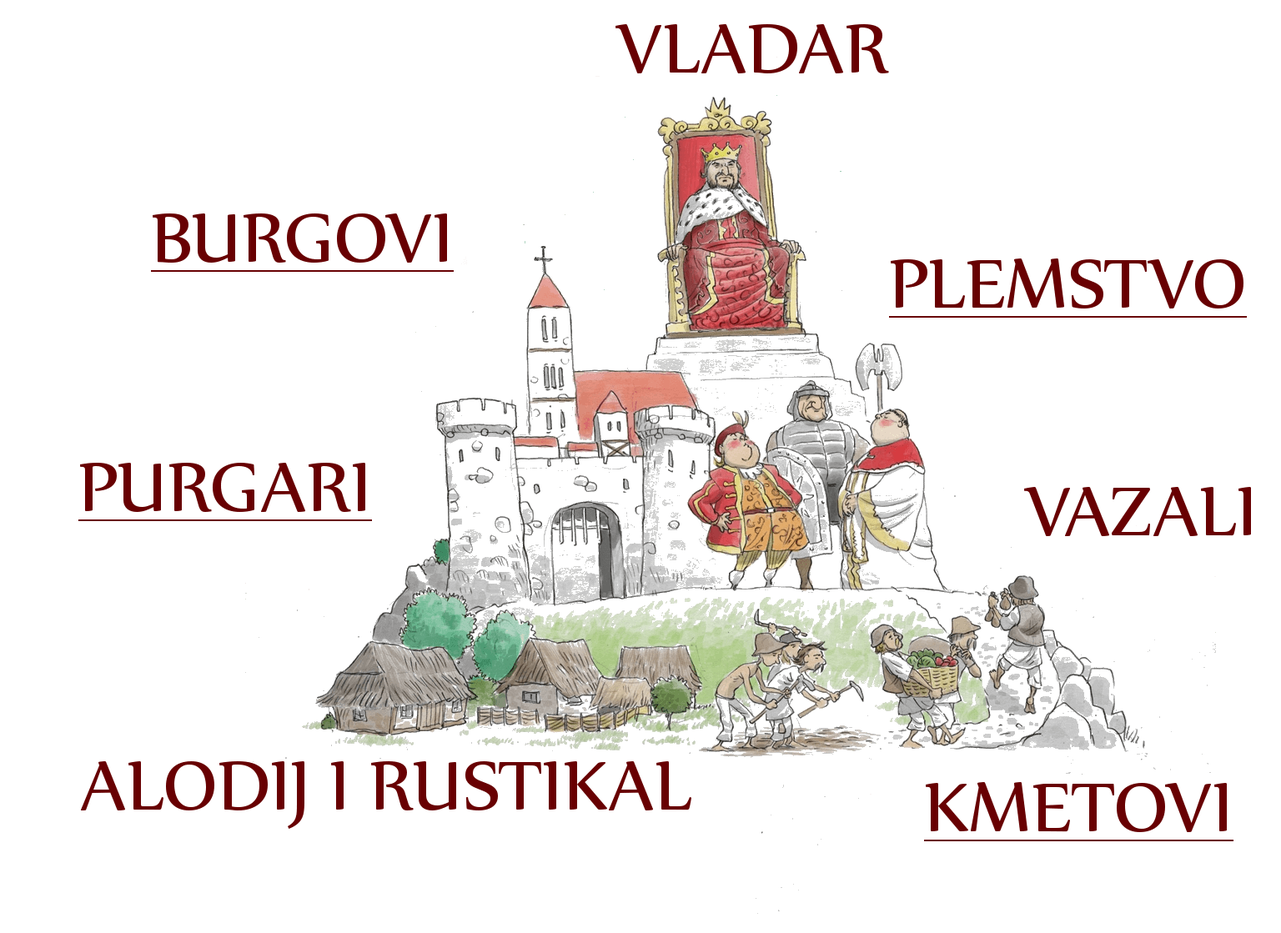
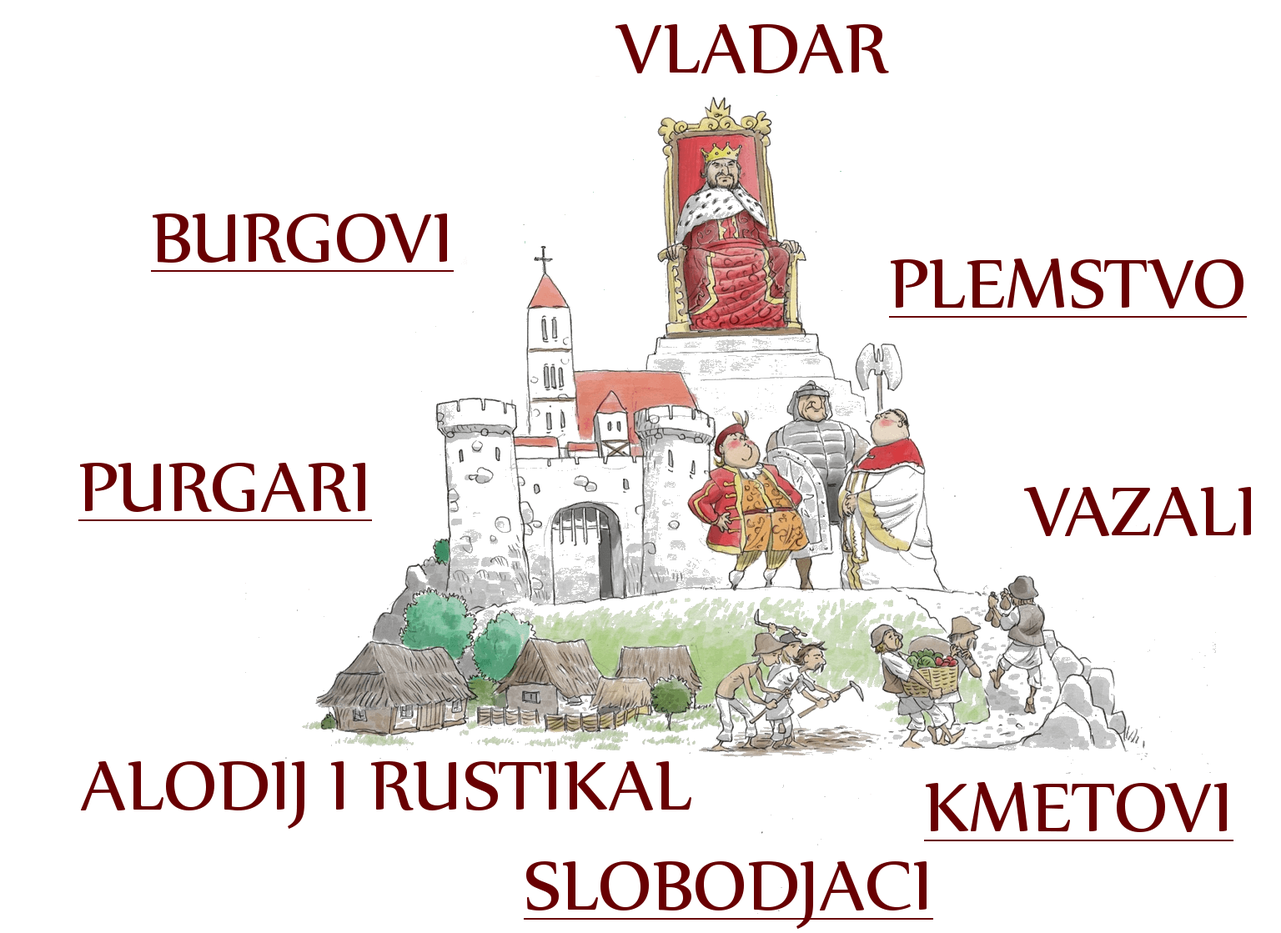
Touch - test

Changed region(s): [[0.4062, 0.9115, 0.7188, 1.0], [0.7188, 0.9419, 0.75, 0.9723], [0.6875, 0.9723, 0.7188, 1.0]]

diff --git a/feudalna-piramida.html b/feudalna-piramida.html
@@ -2,193 +2,187 @@
 <html>
 
 <head>
-  <meta charset="utf-8">
-  <title>Muzej seljačkih buna</title>
-  <meta name="viewport" content="width=device-width, initial-scale=1">
-  <link rel="stylesheet" type="text/css" href="css/w3.css">
-  <link rel="stylesheet" type="text/css" href="css/stil.css">
-  <link rel="stylesheet" type="text/css" href="css/font-awesome.min.css">
-  <script src="js/jquery-3.2.1.min.js" type="text/javascript"></script>
-  <script src="js/image-map.js" type="text/javascript"></script>
-  <style>
-    html,
-    body {
-      background: url(css/podloga2.jpg) no-repeat center center fixed;
-      -webkit-background-size: cover;
-      -moz-background-size: cover;
-      -o-background-size: cover;
-      background-size: cover;
-    }
-
-    .moj-modal {
-      position: fixed;
-      top: 50%;
-      transform: translateY(-50%);
-    }
-  </style>
+    <meta charset="utf-8">
+    <title>Muzej seljačkih buna</title>
+    <meta name="viewport" content="width=device-width, initial-scale=1">
+    <link rel="stylesheet" type="text/css" href="css/w3.css">
+    <link rel="stylesheet" type="text/css" href="css/stil.css">
+    <link rel="stylesheet" type="text/css" href="css/font-awesome.min.css">
+    <script src="js/jquery-3.2.1.min.js" type="text/javascript"></script>
+    <script src="js/image-map.js" type="text/javascript"></script>
+    <script src="js/index.js" type="text/javascript"></script>
+    <style>
+        html,
+        body {
+            background: url(css/podloga2.jpg) no-repeat center center fixed;
+            -webkit-background-size: cover;
+            -moz-background-size: cover;
+            -o-background-size: cover;
+            background-size: cover;
+        }
+        
+        .moj-modal {
+            position: fixed;
+            top: 50%;
+            transform: translateY(-50%);
+        }
+    </style>
 </head>
 
 <body>
-  <span onclick="location.href='index.html'" class="w3-button w3-display-topleft home"><i class="fa fa-fort-awesome" aria-hidden="true"></i></span>
+    <span onclick="location.href='index.html'" class="w3-button w3-display-topleft home"><i class="fa fa-fort-awesome" aria-hidden="true"></i></span>
 
-  <div class='modal-overlay w3-animate-opacity'>
-    <div class='moj-modal'>
-      <div>
-        <div class="w3-container">
-          <h1 class="naslov"><strong>Feudalno društvo</strong></h1>
-          <div style="width:50%; float:right; text-align:right"><img src="slike/feudalna-piramida.png" class="slike-tekst" usemap="#image-map">
-          </div>
-          <div style="width:50%;float:left">
-            <p class="tekst">Danas nam je pomalo teško zamisliti društvo u kakvom se živjelo u srednjem vijeku i odnose koji su tada vladali. Iako feudalizam obično poistovjećujemo sa srednjim vijekom, u Hrvatskoj i susjednim zemljama zadržao se sve do 19. stoljeća. Već
-              i stoga, bitno ga je upoznati.
-              <br> Feudalizam je utemeljen na odnosu između vladara i njegovih vazala te vazala - vlastelina i njihovih podložnika – vazalnom lancu. Naziv feudalizam potječe od riječi <i>feod</i> – posjed i ukazuje na veliko značenje zemlje za obradu
-              u feudalizmu. Vrhovno vlasništvo nad zemljom ima vladar, on pojedine dijelove dodjeljuje velikašima, koji ih daju svojim vazalima, a obrađuju ih njihovi podložnici. Zemljišni posjed – vlastelinstvo, osnova je srednjovjekovnog društva i ekonomije.
-              Dijeli se na dva dijela: <i>alodij</i> i <i>rustikal</i>. Rustikal je podijeljen na mnogo malih jedinica: kmetskih selišta. Svi prinosi s alodija pripadaju vlastelinu, koji je i njegov neposredni vlasnik, dok je rustikal podijeljen seljacima
-              koji ga obrađuju. Seljaci obrađuju vlastelinsku zemlju, to zovemo radnom rentom (ili tlakom), te daju dio prinosa sa svojih polja – to je naturalna renta i novac – novčanu rentu. Za uzvrat, vlastelini su svojim seljacima dužni pružiti zaštitu.
-              Obrađivači su morali davati vlasteli i neka druga davanja, kojima je svrha bila i naglasiti ugled viših staleža. I crkva se financirala iz davanja seljaka kroz crkvenu desetinu.
-            </p>
-          </div>
+    <div class='modal-overlay w3-animate-opacity'>
+        <div class='moj-modal'>
+            <div>
+                <div class="w3-container">
+                    <h1 class="naslov"><strong>Feudalno društvo</strong></h1>
+                    <div style="width:50%; float:right; text-align:right"><img src="slike/feudalna-piramida.png" class="slike-tekst" usemap="#image-map">
+                    </div>
+                    <div style="width:50%;float:left">
+                        <p class="tekst">Danas nam je pomalo teško zamisliti društvo u kakvom se živjelo u srednjem vijeku i odnose koji su tada vladali. Iako feudalizam obično poistovjećujemo sa srednjim vijekom, u Hrvatskoj i susjednim zemljama zadržao se sve do 19. stoljeća. Već i stoga, bitno ga je upoznati.
+                            <br>
+                            <br> Feudalizam je utemeljen na odnosu između vladara i njegovih vazala te vazala - vlastelina i njihovih podložnika – vazalnom lancu. Naziv feudalizam potječe od riječi <i>feod</i> – posjed i ukazuje na veliko značenje zemlje za obradu u feudalizmu. Vrhovno vlasništvo nad zemljom ima vladar, on pojedine dijelove dodjeljuje velikašima, koji ih daju svojim vazalima, a obrađuju ih njihovi podložnici. Zemljišni posjed – vlastelinstvo, osnova je srednjovjekovnog društva i ekonomije. Dijeli se na dva dijela: <i>alodij</i> i <i>rustikal</i>. Rustikal je podijeljen na mnogo malih jedinica: kmetskih selišta. Svi prinosi s alodija pripadaju vlastelinu, koji je i njegov neposredni vlasnik, dok je rustikal podijeljen seljacima koji ga obrađuju. Seljaci obrađuju vlastelinsku zemlju, to zovemo radnom rentom (ili tlakom), te daju dio prinosa sa svojih polja – to je naturalna renta i novac – novčanu rentu. Za uzvrat, vlastelini su svojim seljacima dužni pružiti zaštitu. Obrađivači su morali davati vlasteli i neka druga davanja, kojima je svrha bila i naglasiti ugled viših staleža. I crkva se financirala iz davanja seljaka kroz crkvenu desetinu.
+                        </p>
+                    </div>
+                </div>
+            </div>
         </div>
-      </div>
     </div>
-  </div>
 
-  <div id="burgovi" class="w3-modal">
-    <div class="w3-modal-content w3-card-4 w3-animate-opacity prozor">
-      <div class="w3-container">
-        <span onclick="$('#burgovi').fadeOut(600);" class="w3-button w3-display-topright iks">&times;</span>
-        <h1 class="naslov"><strong>BURGOVI</strong></h1>
+    <div id="burgovi" class="w3-modal">
+        <div class="w3-modal-content w3-card-4 w3-animate-opacity prozor">
+            <div class="w3-container">
+                <span onclick="$('#burgovi').fadeOut(600);" class="w3-button w3-display-topright iks">&times;</span>
+                <h1 class="naslov"><strong>BURGOVI</strong></h1>
 
-        <div style="width:50%; float:right; text-align:center; height:700px;"><a href="burgovi-2.html"><img src="slike/1-3_Vlastelinstvo-1573.png" class="slike-tekst"></a>
+                <div style="width:50%; float:right; text-align:center; height:700px;">
+                    <a href="burgovi-2.html"><img src="slike/1-3_Vlastelinstvo-1573.png" class="slike-tekst"></a>
+                </div>
+
+                <div style="width:50%;float:left; height:700px; overflow:auto">
+                    <p class="tekst">
+                        Vlastelinski grad, burg ili zamak, kako ga god želite zvati, je dom feudalca u srednjem vijeku. U njemu se stanovalo, iz njega se upravljalo posjedom, ali je imao zadatak i zaštiti svog vlasnika, s obzirom da su se nesuglasice često rješavale nasiljem. Stoga su zidovi burga visoki i snažni te ojačani kulama. Na najvišemu mjestu gradskoga kompleksa obično je stajala tzv. <em>branič-kula</em>, koju, zanimljivo je, većina zagorskih gradova nema. Posebno se brinulo o zaštiti ulaza. U slučaju opasnosti trebalo je spriječiti prilaz uvlačenjem ljestava, spuštanjem rešetke ili pak podizanjem mosta što je vodio preko opkopa.
+                        <br>
+                        <br> Život u takvim burgovima nije baš bio osobito ugodan, prozori su bili mali, zidovi vlažni, grijani su bili tek neki prostori, krevete su stanari štitili baldahinima (svodovima od tkanine) da bi im bilo udobnije spavati.
+                        <br>
+                        <br> S obzirom na često „dobre“ odnose sa susjedima, plemići su voljeli svoje domove graditi na strmim uzvisinama, odakle se moglo vidjeti tko im dolazi u goste. Gradovi smješteni u ravnici štitili su se opkopima ispunjenima vodom.
+                        <br>
+                        <br> U vanjskim dijelovima mogle su postojati staje, manji vrtovi i ostalo potrebno za svakodnevni život. Od velike važnosti, pogotovo u trenucima opsade, bila je opskrba vodom putem bunara koji je crpio podzemne vode ili cisterne u koju se skupljala kišnica. Važan dio grada bila je i kapela.
+                        <br>
+                        <br> Vlastelinski se gradovi javljaju i razvijaju usporedo s razvojem feudalizma. Prvi su gradovi u Zagorju vjerojatno bili građeni od drva i zemlje te se nisu očuvali. Krajem 12. stoljeća započinje gradnja kamenih gradova, kojih je sve više nakon provale Mongola 1242. godine, jer se pokazalo da samo kameni gradovi podignuti na teško pristupačnim uzvisinama omogućuju dobru zaštitu. Stoga je gradnja većine zagorskih gradova započeta u drugoj polovici 13. ili u 14. stoljeću, a u 15., i osobito 16. stoljeću, dograđivani su za ratovanje novim, vatrenim oružjem. Osim uobičajenih sukoba među feudalcima, u novome su vijeku gradove sve više ugrožavali i pobunjeni seljaci, a u to doba i Turci se povremeno pojavljuju u Zagorju. Ipak, postupno sve stabilnije okolnosti potaknule su želju za udobnijim i raskošnijim stanovanjem. Teško dostupne gradove feudalci postupno napuštaju i prepuštaju ih propadanju i podižu novu vrstu feudalnih rezidencija – dvorce.
+                        <br>
+                        <br>
+
+                        <img src="slike/1-7_0_naslovna_Burgovi.png" style="width:100%;">
+                    </p>
+                </div>
+
+            </div>
         </div>
-
-        <div style="width:50%;float:left; height:700px; overflow:auto">
-          <p class="tekst">
-            Vlastelinski grad, burg ili zamak, kako ga god želite zvati, je dom feudalca u srednjem vijeku. U njemu se stanovalo, iz njega se upravljalo posjedom, ali je imao zadatak i zaštiti svog vlasnika, s obzirom da su se nesuglasice često rješavale nasiljem.
-            Stoga su zidovi burga visoki i snažni te ojačani kulama. Na najvišemu mjestu gradskoga kompleksa obično je stajala tzv. <em>branič-kula</em>, koju, zanimljivo je, većina zagorskih gradova nema. Posebno se brinulo o zaštiti ulaza.
-            U slučaju opasnosti trebalo je spriječiti prilaz uvlačenjem ljestava, spuštanjem rešetke ili pak podizanjem mosta što je vodio preko opkopa.
-            <br> Život u takvim burgovima nije baš bio osobito ugodan, prozori su bili mali, zidovi vlažni, grijani su bili tek neki prostori, krevete su stanari štitili baldahinima (svodovima od tkanine) da bi im bilo udobnije spavati.
-            <br> S obzirom na često „dobre“ odnose sa susjedima, plemići su voljeli svoje domove graditi na strmim uzvisinama, odakle se moglo vidjeti tko im dolazi u goste. Gradovi smješteni u ravnici štitili su se opkopima ispunjenima vodom.
-            <br> U vanjskim dijelovima mogle su postojati staje, manji vrtovi i ostalo potrebno za svakodnevni život. Od velike važnosti, pogotovo u trenucima opsade, bila je opskrba vodom putem bunara koji je crpio podzemne vode ili cisterne u koju se
-            skupljala kišnica. Važan dio grada bila je i kapela.
-            <br> Vlastelinski se gradovi javljaju i razvijaju usporedo s razvojem feudalizma. Prvi su gradovi u Zagorju vjerojatno bili građeni od drva i zemlje te se nisu očuvali. Krajem 12. stoljeća započinje gradnja kamenih gradova, kojih je sve više
-            nakon provale Mongola 1242. godine, jer se pokazalo da samo kameni gradovi podignuti na teško pristupačnim uzvisinama omogućuju dobru zaštitu. Stoga je gradnja većine zagorskih gradova započeta u drugoj polovici 13. ili u 14. stoljeću, a u
-            15., i osobito 16. stoljeću, dograđivani su za ratovanje novim, vatrenim oružjem. Osim uobičajenih sukoba među feudalcima, u novome su vijeku gradove sve više ugrožavali i pobunjeni seljaci, a u to doba i Turci se povremeno pojavljuju u Zagorju.
-            Ipak, postupno sve stabilnije okolnosti potaknule su želju za udobnijim i raskošnijim stanovanjem. Teško dostupne gradove feudalci postupno napuštaju i prepuštaju ih propadanju i podižu novu vrstu feudalnih rezidencija – dvorce.<br><br>
-            <img src="slike/1-7_0_naslovna_Burgovi.png" style="width:100%;">
-          </p>
-        </div>
-
-      </div>
     </div>
-  </div>
 
-  <div id="purgovi" class="w3-modal">
-    <div class="w3-modal-content w3-card-4 w3-animate-opacity prozor">
-      <div class="w3-container">
-        <span onclick="$('#purgovi').fadeOut(600);" class="w3-button w3-display-topright iks">&times;</span>
-        <h1 class="naslov"><strong>PURGARI</strong></h1>
-        <div style="width:50%; float:right; text-align:center;"><img src="slike/purgari.png" class="slike-tekst">
+    <div id="purgovi" class="w3-modal">
+        <div class="w3-modal-content w3-card-4 w3-animate-opacity prozor">
+            <div class="w3-container">
+                <span onclick="$('#purgovi').fadeOut(600);" class="w3-button w3-display-topright iks">&times;</span>
+                <h1 class="naslov"><strong>PURGARI</strong></h1>
+                <div style="width:50%; float:right; text-align:center;"><img src="slike/purgari.png" class="slike-tekst">
+                </div>
+
+                <div style="width:50%;float:left; overflow:auto">
+                    <p class="tekst">
+                        Purgari (purger, purgar, od njem. riječi Bürger, građanin) su članovi povlaštenih trgovačkih općina. Mogli su imati različite feudalne terete, no i ove građane najniže vrste zemaljska gospoda nazivaju plemenitim purgarima, a i oni sami se često tako zovu.
+                        <br>
+                        <br> Stanovnici trgovišta Donje Stubice i Podsuseda nazivali su se u 16. st. i građanima (cives) i kmetovima (coloni), što pokazuje da se njihov položaj mijenjao i da se položaj purgara nastojao izjednačiti s položajem kmetova.
+                        <br>
+                        <br> Iako se njihov položaj pogoršavao, purgari su na susjedgradsko-stubičkom vlastelinstvu u 16. st. još uvijek činili zasebnu kategoriju podložnika. Donjostubički su 1566. plaćali veće novčane daće nego kmetovi. Stanovnici susjedgradskog trgovišta (Podsuseda) prema urbaru iz 1566. nisu davali redovitu daću u novcu i naturi. Njihova se radna renta sastojala od specijalnih poslova u vlastelinskom gospodarstvu: morali su nositi poštu, voditi brigu o brodu na Savi i obrađivati vlastelinski vrt. Njihov je najteži teret bila dužnost prodaje vlastelinskog vina.
+                        <br>
+                        <br>
+
+                        <img src="slike/purgari-2.png" style="width:100%;">
+                    </p>
+                </div>
+
+            </div>
         </div>
-
-        <div style="width:50%;float:left; overflow:auto">
-          <p class="tekst">
-            Purgari (purger, purgar, od njem. riječi Bürger, građanin) su članovi povlaštenih trgovačkih općina. Mogli su imati različite feudalne terete, no i ove građane najniže vrste zemaljska gospoda nazivaju plemenitim purgarima, a i oni sami se često tako zovu.
-            <br> Stanovnici trgovišta Donje Stubice i Podsuseda nazivali su se u 16. st. i građanima (cives) i kmetovima (coloni), što pokazuje da se njihov položaj mijenjao i da se položaj purgara nastojao izjednačiti s položajem kmetova.
-            <br> Iako se njihov položaj pogoršavao, purgari su na susjedgradsko-stubičkom vlastelinstvu u 16. st. još uvijek činili zasebnu kategoriju podložnika. Donjostubički su 1566. plaćali veće novčane daće nego kmetovi. Stanovnici susjedgradskog
-            trgovišta (Podsuseda) prema urbaru iz 1566. nisu davali redovitu daću u novcu i naturi. Njihova se radna renta sastojala od specijalnih poslova u vlastelinskom gospodarstvu: morali su nositi poštu, voditi brigu o brodu na Savi i obrađivati
-            vlastelinski vrt. Njihov je najteži teret bila dužnost prodaje vlastelinskog vina.
-            <br> <br>
-            <img src="slike/purgari-2.png" style="width:100%;">
-          </p>
-        </div>
-
-      </div>
     </div>
-  </div>
 
-  <div id="plemstvo" class="w3-modal">
-    <div class="w3-modal-content w3-card-4 w3-animate-opacity prozor">
-      <div class="w3-container">
-        <span onclick="$('#plemstvo').fadeOut(600);" class="w3-button w3-display-topright iks">&times;</span>
-        <h1 class="naslov"><strong>PLEMSTVO</strong></h1>
-        <div style="width:50%; float:right; text-align:center; height:700px;"><img src="slike/plemstvo.png" class="slike-tekst">
+    <div id="plemstvo" class="w3-modal">
+        <div class="w3-modal-content w3-card-4 w3-animate-opacity prozor">
+            <div class="w3-container">
+                <span onclick="$('#plemstvo').fadeOut(600);" class="w3-button w3-display-topright iks">&times;</span>
+                <h1 class="naslov"><strong>PLEMSTVO</strong></h1>
+                <div style="width:50%; float:right; text-align:center; height:700px;"><img src="slike/plemstvo.png" class="slike-tekst">
+                </div>
+
+                <div style="width:50%;float:left; height:700px; overflow:auto; padding-right: 20px;">
+                    <p class="tekst">
+                        Plemstvo je u feudalnom društvu društveno - staleška kategorija, koja se u gospodarskom smislu temelji na posjedovanju zemlje i radne snage na njoj, a u političkom životu plemstvo sudjeluje u diobi javne vlasti, a uz to ima ulogu profesionalne vojske. Ili, jednostavnije rečeno - plemići su oni koji imaju posjed na kojem drugi rade, a imaju i određena zakonska prava koja ih razlikuju od ostalih ljudi.
+                        <br>
+                        <br> Na početku 16. stoljeća u Kraljevini Slavoniji bilo je između 850 i 950 feudalnih posjednika, na čijim je posjedima bilo 25 do 30 000 kmetskih obitelji. Među njima, 5 - 6% velikaša (<em>magnates</em>) držalo je oko 75% poreznih dimova. Među velikaše ubrajamo nasljedne knezove (grofove), barune i crkvene velikodostojanstvenike. Najbrojnija skupina feudalnih posjednika kod nas je srednje i niže plemstvo. Oni su činili oko 95% posjednika, ali im je pripadalo samo nešto više od 25% feudalnog zemljišnog posjeda – poreznih dimova. Ova je skupina imala važnu ulogu u političkom i društvenom životu. Njezin se udio u feudalnom zemljišnom fondu počeo povećavati potkraj 16. stoljeća, kada su se na mnogim starim plemićkim posjedima počele stvarati kurije sa zasebnim posjedima, koje plemići uzimaju u zalog od vlastelina za određene poslove i zasluge.
+                        <br>
+                        <br>
+
+                        <img src="slike/plemstvo-2.png" style="width:100%;">
+                    </p>
+                </div>
+
+            </div>
         </div>
-
-        <div style="width:50%;float:left; height:700px; overflow:auto; padding-right: 20px;">
-          <p class="tekst">
-            Plemstvo je u feudalnom društvu društveno - staleška kategorija, koja se u gospodarskom smislu temelji na posjedovanju zemlje i radne snage na njoj, a u političkom životu plemstvo sudjeluje u diobi javne vlasti, a uz to ima ulogu profesionalne vojske.
-            Ili, jednostavnije rečeno - plemići su oni koji imaju posjed na kojem drugi rade, a imaju i određena zakonska prava koja ih razlikuju od ostalih ljudi.<br> Na početku 16. stoljeća u Kraljevini Slavoniji bilo je između 850 i 950
-            feudalnih posjednika, na čijim je posjedima bilo 25 do 30 000 kmetskih obitelji. Među njima, 5 - 6% velikaša (<em>magnates</em>) držalo je oko 75% poreznih dimova. Među velikaše ubrajamo nasljedne knezove (grofove), barune i crkvene velikodostojanstvenike.
-            Najbrojnija skupina feudalnih posjednika kod nas je srednje i niže plemstvo. Oni su činili oko 95% posjednika, ali im je pripadalo samo nešto više od 25% feudalnog zemljišnog posjeda – poreznih dimova. Ova je skupina imala važnu ulogu u političkom
-            i društvenom životu. Njezin se udio u feudalnom zemljišnom fondu počeo povećavati potkraj 16. stoljeća, kada su se na mnogim starim plemićkim posjedima počele stvarati kurije sa zasebnim posjedima, koje plemići uzimaju u zalog od vlastelina
-            za određene poslove i zasluge. <br><br>
-            <img src="slike/plemstvo-2.png" style="width:100%;">
-          </p>
-        </div>
-
-      </div>
     </div>
-  </div>
 
-  <div id="kmetovi" class="w3-modal">
-    <div class="w3-modal-content w3-card-4 w3-animate-opacity prozor">
-      <div class="w3-container">
-        <span onclick="$('#kmetovi').fadeOut(600);" class="w3-button w3-display-topright iks">&times;</span>
-        <h1 class="naslov"><strong>KMETOVI</strong></h1>
-        <div style="width:50%; float:right; text-align:center;"><img src="slike/kmetovi.png" class="slike-tekst">
+    <div id="kmetovi" class="w3-modal">
+        <div class="w3-modal-content w3-card-4 w3-animate-opacity prozor">
+            <div class="w3-container">
+                <span onclick="$('#kmetovi').fadeOut(600);" class="w3-button w3-display-topright iks">&times;</span>
+                <h1 class="naslov"><strong>KMETOVI</strong></h1>
+                <div style="width:50%; float:right; text-align:center;"><img src="slike/kmetovi.png" class="slike-tekst">
+                </div>
+
+                <div style="width:50%;float:left; overflow:auto; padding-right: 20px;">
+                    <p class="tekst">
+                        Kmetovi (coloni, jobagiones) su činili osnovnu grupu zavisnih seljaka. Razlika u njihovoj imovini mogla je biti velika. Staleško kmetstvo vezano je uz zemlju (kmeštinu) koja se tretira kao vlastelinska zemlja te za čiju obradu kmet daje davanja u naturi, novcu (daće), radu (tlaka) i službi na imanju, dvorcu ili vojsci. Tobožnji zakupnički odnos zemlje od strane kmeta nema zaštitnih ustanova te kmet u praksi ostaje izložen potpunoj samovolji gospodara koji često uključuje i teško zlostavljanje zbog najmanjih prijestupa u podmirivanju obveza. Ublažavanje položaja kmetova donose tek urbari Marije Terezije, a kmetstvo se kao podložnički odnos ukida uredbama Hrvatskog sabora 1848., kada kmeština postaje maleni seljački posjed. </p>
+                    <ul class="tekst">
+                        <li><strong>Želiri ili inkvilini</strong> (lat. inquilinus, stanovnik, najamnik, želir je stari hrvatski naziv) Po hrvatsko-ugarskom privatnom pravu kmet koji nema zemlju ili posjeduje manje od jedne osmine selišta. Inkvilini bez vlastite kuće nazivali su se subinkvilini ili želiri beskućnici. </li>
+                        <li><strong>Gornjaci</strong> (mantanistae, montales, gorschaki) su posebna kategorija zavisnih seljaka – siromašni seljaci koji su se bavili isključivo vinogradarstvom i živjeli u vinogradima gdje su sagradili svoje kuće. Mogu se smatrati posebnom vrstom želira. Činili su dosta brojnu grupu podložnika na vlastelinstvima u Zagorju. </li>
+                    </ul>
+
+                </div>
+
+            </div>
         </div>
-
-        <div style="width:50%;float:left; overflow:auto; padding-right: 20px;">
-          <p class="tekst">
-            Kmetovi (coloni, jobagiones) su činili osnovnu grupu zavisnih seljaka. Razlika u njihovoj imovini mogla je biti velika. Staleško kmetstvo vezano je uz zemlju (kmeštinu) koja se tretira kao vlastelinska zemlja te za čiju obradu kmet daje davanja u naturi,
-            novcu (daće), radu (tlaka) i službi na imanju, dvorcu ili vojsci. Tobožnji zakupnički odnos zemlje od strane kmeta nema zaštitnih ustanova te kmet u praksi ostaje izložen potpunoj samovolji gospodara koji često uključuje i teško zlostavljanje
-            zbog najmanjih prijestupa u podmirivanju obveza. Ublažavanje položaja kmetova donose tek urbari Marije Terezije, a kmetstvo se kao podložnički odnos ukida uredbama Hrvatskog sabora 1848., kada kmeština postaje maleni seljački posjed. <br>
-
-
-          </p>
-          <ul class="tekst">
-            <li><strong>Želiri ili inkvilini</strong> (lat. inquilinus, stanovnik, najamnik, želir je stari hrvatski naziv) Po hrvatsko-ugarskom privatnom pravu kmet koji nema zemlju ili posjeduje manje od jedne osmine selišta. Inkvilini bez vlastite kuće
-              nazivali su se subinkvilini ili želiri beskućnici. </li>
-            <li><strong>Gornjaci</strong> (mantanistae, montales, gorschaki) su posebna kategorija zavisnih seljaka – siromašni seljaci koji su se bavili isključivo vinogradarstvom i živjeli u vinogradima gdje su sagradili svoje kuće. Mogu se smatrati posebnom
-              vrstom želira. Činili su dosta brojnu grupu podložnika na vlastelinstvima u Zagorju. </li>
-          </ul>
-          </p>
-        </div>
-
-      </div>
     </div>
-  </div>
 
-  <div id="slobodnjaci" class="w3-modal">
-    <div class="w3-modal-content w3-card-4 w3-animate-opacity prozor">
-      <div class="w3-container">
-        <span onclick="$('#slobodnjaci').fadeOut(600);" class="w3-button w3-display-topright iks">&times;</span>
-        <h1 class="naslov"><strong>SLOBODNJACI</strong></h1>
-        <div style="width:50%; float:right; text-align:center;"><img src="slike/slobodnjaci.png" class="slike-tekst">
+    <div id="slobodnjaci" class="w3-modal">
+        <div class="w3-modal-content w3-card-4 w3-animate-opacity prozor">
+            <div class="w3-container">
+                <span onclick="$('#slobodnjaci').fadeOut(600);" class="w3-button w3-display-topright iks">&times;</span>
+                <h1 class="naslov"><strong>SLOBODNJACI</strong></h1>
+                <div style="width:50%; float:right; text-align:center;padding-bottom:20px;"><img src="slike/slobodnjaci.png" class="slike-tekst">
+                </div>
+
+                <div style="width:50%;float:left; overflow:auto; padding-right: 20px;">
+                    <p class="tekst">
+                        Slobodnjaci (libertini) su podložnici koji su zbog obavljanja različitih poslova na vlastelinstvima bili djelomično ili u cjelini oslobođeni davanja feudalne rente. To su mogli biti dužnosnici seoskih općina (seoski suci, vojvode, tekliči), seljaci koji su služili kao stražari (vigiles, portarii), vlastelinski službenici (spanus), radnici na alodima (mercenarii) i različiti obrtnici.
+                        <br>
+                        <br> Libertini su bili oslobođeni feudalnih tereta tako dugo dok su obavljali službe i poslove za svog vlastelina. Nisu, dakle, imali nasljedni status. U 16. st. počinje se javljati i druga grupa slobodnjaka, slobodnjaci s nasljednim povlasticama. Tu su grupu slobodnjaka činili u pravilu novi doseljenici na vlastelinstvima. U doba naseljavanja opustošenih krajeva u prvoj polovici 17. stoljeća slobodnjaci te vrste postat će na mnogim vlastelinstvima veoma brojna grupa podložnika.
+                    </p>
+                </div>
+
+            </div>
         </div>
-
-        <div style="width:50%;float:left; overflow:auto; padding-right: 20px;">
-          <p class="tekst">
-            Slobodnjaci (libertini) su podložnici koji su zbog obavljanja različitih poslova na vlastelinstvima bili djelomično ili u cjelini oslobođeni davanja feudalne rente. To su mogli biti dužnosnici seoskih općina (seoski suci, vojvode, tekliči), seljaci koji
-            su služili kao stražari (vigiles, portarii), vlastelinski službenici (spanus), radnici na alodima (mercenarii) i različiti obrtnici. <br> Libertini su bili oslobođeni feudalnih tereta tako dugo dok su obavljali službe i poslove
-            za svog vlastelina. Nisu, dakle, imali nasljedni status. U 16. st. počinje se javljati i druga grupa slobodnjaka, slobodnjaci s nasljednim povlasticama. Tu su grupu slobodnjaka činili u pravilu novi doseljenici na vlastelinstvima. U doba naseljavanja
-            opustošenih krajeva u prvoj polovici 17. stoljeća slobodnjaci te vrste postat će na mnogim vlastelinstvima veoma brojna grupa podložnika.
-          </p>
-        </div>
-
-      </div>
     </div>
-  </div>
-  <map name="image-map">
+    <map name="image-map">
         <area target="" alt="Burgovi" title="Burgovi" coords="183,252,580,328" shape="rect" onclick='$("#burgovi").show();'>
-        <area target="" alt="Purgari" title="Purgari" coords="93,551,490,624" shape="rect"  onclick='$("#purgovi").show();'>
-        <area target="" alt="Kmetovi" title="Kmetovi"  coords="1108,937,1476,1010" shape="rect" onclick='$("#kmetovi").show();'>
+        <area target="" alt="Purgari" title="Purgari" coords="93,551,490,624" shape="rect" onclick='$("#purgovi").show();'>
+        <area target="" alt="Kmetovi" title="Kmetovi" coords="1108,937,1476,1010" shape="rect" onclick='$("#kmetovi").show();'>
         <area target="" alt="Plemstvo" title="Plemstvo" coords="1066,311,1495,377" shape="rect" onclick='$("#plemstvo").show();'>
+        <area target="" alt="Slobodnjaci" title="Slobodnjaci" coords="630,1029,1121,1116" shape="rect" onclick='$("#slobodnjaci").show();'>
     </map>
-  <script>
-    $('img[usemap]').imageMap();
-  </script>
+    <script>
+        $('img[usemap]').imageMap();
+    </script>
 </body>
 
 </html>

diff --git a/js/index.js b/js/index.js
@@ -1,0 +1,12 @@
+$(document).ready(function()
+{
+    $("body").mouseup(function(e)
+    {
+        var subject = $(".w3-modal"); 
+
+        if(e.target.id != subject.attr('class') && !subject.has(e.target).length)
+        {
+            subject.fadeOut();
+        }
+    });
+});

diff --git a/js/index.min.js b/js/index.min.js
@@ -1,0 +1,1 @@
+$(document).ready(function(){$("body").mouseup(function(t){var a=$(".w3-modal");t.target.id==a.attr("class")||a.has(t.target).length||a.fadeOut()})});
